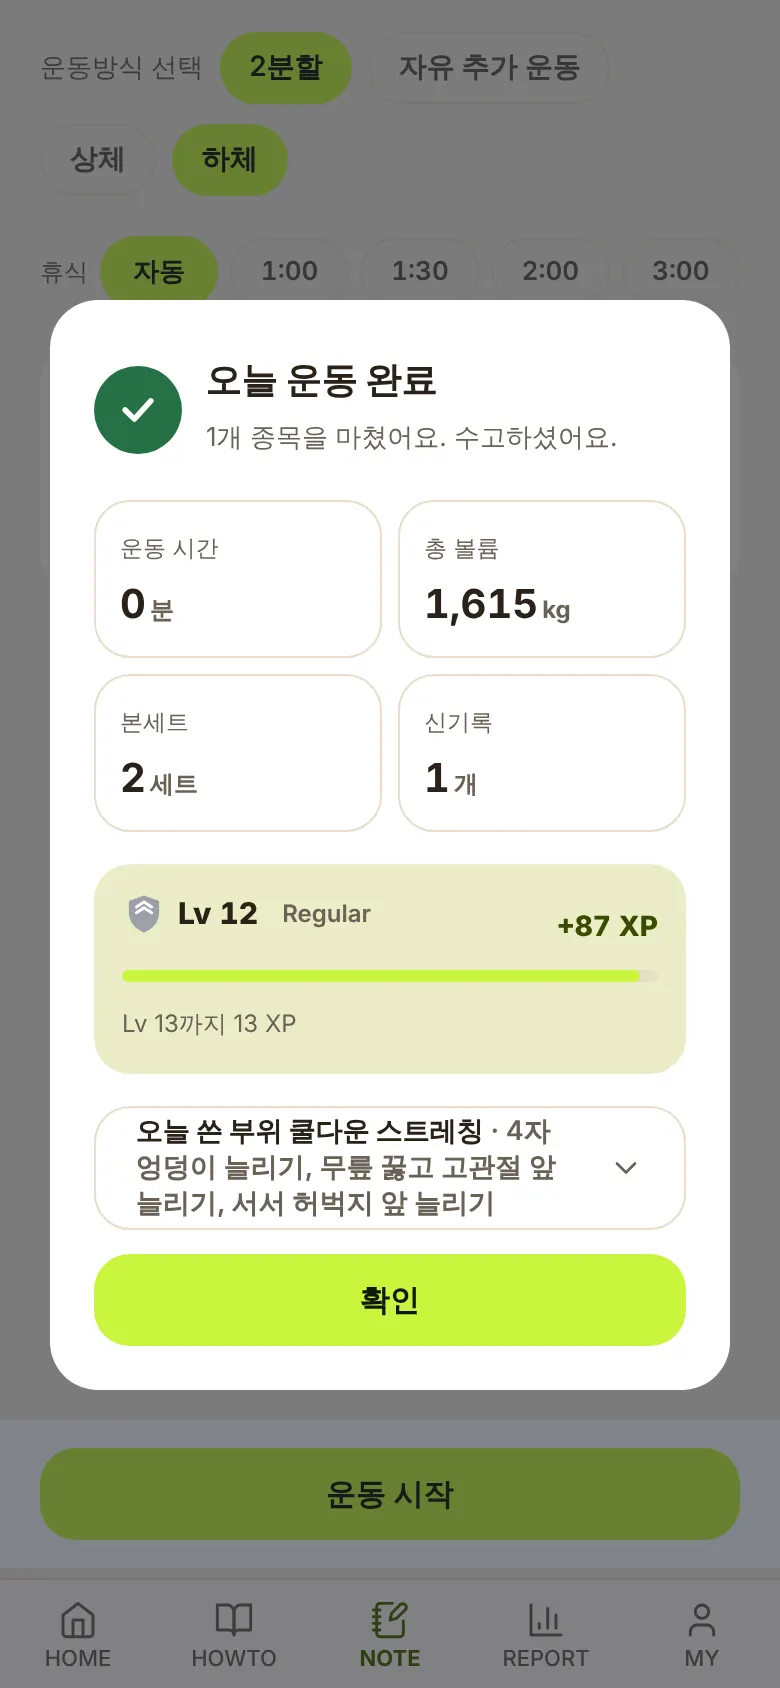
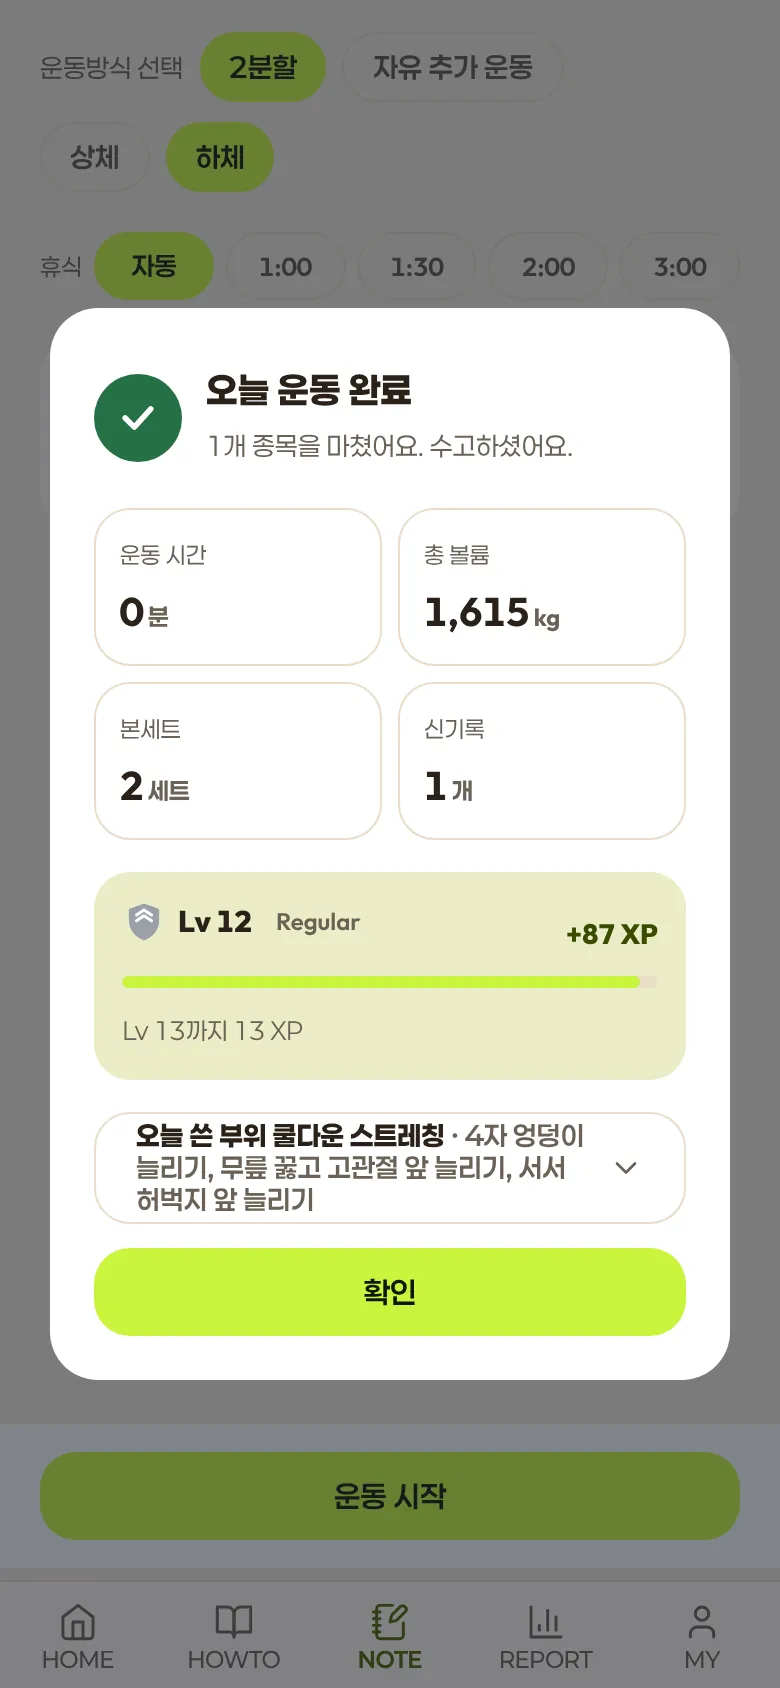
홍보 페이지 보완: 앱 화면을 실제 폰트로 재캡처, 큰 휴대폰 화면 5개(캘린더·리포트 포함), 로고 원래대로
Claude-Session: https://claude.ai/code/session_01KGz5zLwHWgXL2bpR68RxHz

diff --git a/public/intro/index.html b/public/intro/index.html
@@ -46,8 +46,7 @@ h2{font-weight:800;font-size:clamp(30px,4.6vw,52px);line-height:1.2;letter-spaci
 nav{position:fixed;top:0;left:0;right:0;z-index:40;display:flex;align-items:center;justify-content:space-between;padding:16px 24px;transition:background-color .3s,border-color .3s;border-bottom:1px solid transparent;color:#f5efe6}
 nav.solid{background:color-mix(in srgb,var(--bg) 92%,transparent);backdrop-filter:blur(10px);border-color:var(--line);color:var(--t1)}
 .brand{display:flex;align-items:center;gap:8px;font-weight:800;font-size:17px;text-decoration:none}
-.brand i{width:26px;height:26px;border-radius:8px;background:#c8f53c;display:grid;place-items:center}
-.brand i svg{width:16px;height:16px;stroke:#11170a}
+.brand img{width:30px;height:30px;border-radius:8px;display:block}
 nav .go{font:700 14px 'Paperlogy',sans-serif;text-decoration:none;padding:9px 14px;border-radius:10px;border:1px solid currentColor;opacity:.9}
 
 /* 히어로: 전면 사진 */
@@ -90,6 +89,21 @@ nav .go{font:700 14px 'Paperlogy',sans-serif;text-decoration:none;padding:9px 14
 .phone .screen{position:relative;width:100%;height:100%;border-radius:31px;overflow:hidden;background:#f4ece1}
 .phone img{position:absolute;inset:0;width:100%;height:100%;object-fit:cover;object-position:top;opacity:0;transition:opacity .3s ease}
 .phone img.on{opacity:1}
+
+
+/* 기능 행(지그재그, 큰 휴대폰 화면) */
+.feat{display:grid;grid-template-columns:1fr auto;gap:64px;align-items:center;padding:56px 0;border-top:1px solid var(--line)}
+.feat:first-child{border-top:0;padding-top:0}
+.feat.rev{grid-template-columns:auto 1fr}
+.feat.rev .txt{order:2}
+.feat .phone{width:min(320px,76vw);margin-top:0}
+.feat .n{font:800 56px/1 'Outfit',sans-serif;color:var(--fill);letter-spacing:-.04em}
+.feat h3{font-size:clamp(26px,3.2vw,36px);font-weight:800;line-height:1.28;margin-top:14px}
+.feat p{font-size:17px;color:var(--t2);line-height:1.75;margin-top:14px;max-width:460px}
+.feat ul{list-style:none;margin-top:18px;display:flex;flex-direction:column;gap:9px}
+.feat li{font-size:15px;padding-left:20px;position:relative;color:var(--t1)}
+.feat li::before{content:'';position:absolute;left:0;top:9px;width:10px;height:3px;background:var(--fill);border-radius:2px}
+@media (max-width:820px){.feat,.feat.rev{grid-template-columns:1fr;gap:28px;padding:44px 0}.feat.rev .txt{order:0}.feat .phone{margin:0 auto}}
 
 /* 점진적 과부하 데모 */
 .demo{display:grid;grid-template-columns:1fr 1fr;gap:0;margin-top:44px;border:1px solid var(--line);border-radius:24px;overflow:hidden}
@@ -176,7 +190,7 @@ footer .wrap{padding:0}
 </head>
 <body class="dark">
 <nav id="nav">
-  <a class="brand" href="/intro/"><i><svg viewBox="0 0 24 24" fill="none" stroke-width="2.4" stroke-linecap="round"><path d="M6 7v10M18 7v10M3 10v4M21 10v4M6 12h12"/></svg></i>BodyTailor Log</a>
+  <a class="brand" href="/intro/"><img src="/icon-192.png" alt="" width="30" height="30" />BodyTailor Log</a>
   <a class="go" href="/">무료로 시작하기</a>
 </nav>
 
@@ -213,13 +227,13 @@ footer .wrap{padding:0}
   </div>
 </section>
 
-<section id="how" data-tone="dark" style="padding-top:80px">
+<section id="how" data-tone="dark" style="padding-top:90px">
   <div class="wrap">
-    <div class="steps">
-      <div class="step rv"><div class="n">01</div><h3>하던 운동을 골라요</h3><p>종목을 다 볼 필요 없어요. 자주 하는 운동 몇 개로 루틴을 만들면, 지난 기록과 오늘 목표가 미리 채워져요.</p><div class="phone"><div class="screen"><img class="on" loading="lazy" src="img/cap-list.webp" alt="기록 화면: 지난 기록과 오늘 목표"></div></div></div>
-      <div class="step rv d1"><div class="n">02</div><h3>세트 끝나면 체크</h3><p>체크하면 쉬는 시간이 바로 시작돼요. 너무 쉽거나 힘들면 다음 세트 무게를 그 자리에서 알려줘요.</p><div class="phone"><div class="screen"><img class="on" loading="lazy" src="img/cap-rest.webp" alt="세트 체크 후 휴식 타이머"></div></div></div>
-      <div class="step rv d2"><div class="n">03</div><h3>다음엔 조금 더</h3><p>끝나면 오늘 기록을 한 장으로 정리하고, 다음번 목표를 지난번보다 한 걸음만 높여요.</p><div class="phone"><div class="screen"><img class="on" loading="lazy" src="img/cap-done.webp" alt="운동 완료 요약"></div></div></div>
-    </div>
+    <div class="feat rv"><div class="txt"><div class="n">01</div><h3>하던 운동을 고르면<br>오늘 목표가 나와요</h3><p>종목을 다 볼 필요 없어요. 자주 하는 운동 몇 개로 루틴을 만들면 지난 기록과 오늘 목표가 미리 채워져요. "적용"을 누르면 세트마다 목표가 들어가요.</p><ul><li>세트별 목표 · 증량까지 남은 횟수</li><li>직전 기록 바로 보기</li></ul></div><div class="phone"><div class="screen"><img class="on" loading="lazy" src="img/cap-list.webp" alt="기록 화면: 다음 무게 추천과 세트 입력"></div></div></div>
+    <div class="feat rev rv"><div class="txt"><div class="n">02</div><h3>세트 끝나면 체크,<br>휴식은 자동으로</h3><p>체크하면 쉬는 시간이 바로 시작되고, 끝나면 알림으로 알려줘요. 세트가 너무 쉽거나 힘들면 다음 세트 무게도 그 자리에서 제안해요.</p><ul><li>목표에 맞춘 휴식 시간</li><li>다음 세트 무게 조정</li></ul></div><div class="phone"><div class="screen"><img class="on" loading="lazy" src="img/cap-rest.webp" alt="세트 체크 후 휴식 타이머"></div></div></div>
+    <div class="feat rv"><div class="txt"><div class="n">03</div><h3>끝나면<br>한 장으로 정리</h3><p>운동 시간·볼륨·신기록·레벨 진행을 보여주고, 오늘 한 부위에 맞는 쿨다운 스트레칭도 추천해요.</p><ul><li>신기록 알림</li><li>레벨·시즌</li></ul></div><div class="phone"><div class="screen"><img class="on" loading="lazy" src="img/cap-done.webp" alt="운동 완료 요약"></div></div></div>
+    <div class="feat rev rv"><div class="txt"><div class="n">04</div><h3>캘린더에서<br>한 달이 한눈에</h3><p>날짜마다 운동한 부위와 세트가 색으로 쌓여요. 지난 기록도 캘린더에서 바로 고칠 수 있어요.</p><ul><li>부위별 색 표시</li><li>지난 기록 추가·수정</li></ul></div><div class="phone"><div class="screen"><img class="on" loading="lazy" src="img/cap-calendar.webp" alt="캘린더 화면"></div></div></div>
+    <div class="feat rv"><div class="txt"><div class="n">05</div><h3>기록이 쌓이면<br>리포트가 보여요</h3><p>부위별 주간 세트, 종목별 최고 기록, 정체된 종목과 유산소 목표까지 한 화면에서 봐요.</p><ul><li>근육별 주간 세트</li><li>최근 개인 기록·정체 감지</li></ul></div><div class="phone"><div class="screen"><img class="on" loading="lazy" src="img/cap-report.webp" alt="리포트 화면"></div></div></div>
   </div>
 </section>
 

diff --git a/CLAUDE.md b/CLAUDE.md
@@ -137,7 +137,7 @@
 - 휴식 종료 알림(최초 사용 시 권한 요청) + 알림음 선택(`restSoundId`). 소셜 알림 옵트인은 전체 on/off만(Phase2).
 - **스트레칭 가이드**(2026-10-30): `utils/stretches.js`(34종, 부위 9·상황 3, 저장 안 함) + `StretchGuide.jsx`. HOWTO 상단 "운동 둘러보기/스트레칭" 전환, 웜업 화면 동적 3개·완료 요약 쿨다운 3개(`recommendStretches`, 오늘 운동 부위 기준). 운동 전 동적·운동 후 정적 30초 원칙. 영상은 YouTube 검색 링크만.
 - PWA: 서비스워커(패스스루) + 설치 유도 배너.
-- **홍보 페이지** `/intro/`(2026-10-29, 2026-10-30 전면 개편): `public/intro/index.html` 단일 정적 파일(인라인 CSS/JS, 앱 번들과 분리). 구성: 전면 사진 히어로 → 차별점 표(앱이 짜준 계획 vs 내 기록이 기준) → 3단계(고르고·체크하고·다음엔 조금 더, 휴대폰 화면) → 점진적 과부하 데모(utils/strength.js 규칙과 동일) → 기록 방식(리스트형/포커스형) → 트레이너 → FAQ. 섹션별 `data-tone`으로 다크·베이지 교차. 사진 `img/photo-*.webp`(Unsplash 무료 라이선스, 사진 속 상표 로고는 지움), 앱 화면 `img/cap-*.webp`(목업 데이터 캡처 — 실제 사용자 기록 금지), 공유 이미지 `og.png`.
+- **홍보 페이지** `/intro/`(2026-10-29, 2026-10-30 전면 개편): `public/intro/index.html` 단일 정적 파일(인라인 CSS/JS, 앱 번들과 분리). 구성: 전면 사진 히어로 → 차별점 표(앱이 짜준 계획 vs 내 기록이 기준) → 기능 5개(큰 휴대폰 화면 지그재그: 오늘 목표·자동 휴식·완료 요약·캘린더·리포트) → 점진적 과부하 데모(utils/strength.js 규칙과 동일) → 기록 방식(리스트형/포커스형) → 트레이너 → FAQ. 섹션별 `data-tone`으로 다크·베이지 교차. 사진 `img/photo-*.webp`(Unsplash 무료 라이선스, 사진 속 상표 로고는 지움), 앱 화면 `img/cap-*.webp`(목업 데이터 캡처 — 실제 사용자 기록 금지, 앱 폰트가 적용됐는지 확인: 캡처 브라우저는 서비스워커 차단), 로고는 `/icon-192.png`, 공유 이미지 `og.png`.
   - 문구 원칙: PT를 낮추지 않는다("PT 없이도" 금지) — 혼자 운동하는 날의 기록 도구, 어려우면 트레이너를 권한다. 다른 앱 이름을 쓰지 않고 방식만 비교. 종목 수·성취 수 같은 숫자로 압도하지 않고 쉽게. 근거 없는 사용자 수·후기 금지. ksa-on.space와 같은 레이아웃(좌 글·우 휴대폰 히어로, 휴대폰 주변 떠다니는 배지, 아이콘 카드 3열)은 쓰지 않는다. 앱 기능·규칙이 바뀌면 문구·데모도 함께 맞춘다.
 
 ### 7.4 리포트 · 홈 인사이트

diff --git a/CHANGELOG.md b/CHANGELOG.md
@@ -2,6 +2,11 @@
 
 (20줄 초과로 src/App.jsx 상단 주석에서 이 파일로 분리됨)
 
+[2026-10-30] 홍보 페이지 보완(사용자 지적) | public/intro/index.html, public/intro/img/cap-*.webp(캘린더·리포트 추가, 전체 재캡처)
+- 앱 화면 캡처에 실제 폰트(페이퍼로지·Outfit)가 빠져 있던 문제: 캡처 환경의 서비스워커가 폰트 요청을 가로채 기본 폰트로 찍혔음 → 다시 캡처.
+- 쓰는 법 3단계(작은 휴대폰)를 큰 휴대폰 화면 5개 지그재그(오늘 목표·자동 휴식·완료 요약·캘린더·리포트)로 바꿔 앱 내용이 잘 보이게.
+- 좌상단 로고를 기존 앱 아이콘(/icon-192.png)으로 되돌림.
+
 [2026-10-30] 홍보 페이지 전면 개편(사용자 요청) | public/intro/index.html, public/intro/img/(photo-*·cap-* 추가, log·rest·report·done.webp 삭제), CLAUDE.md
 - 차별점 중심: "짜준 운동 대신, 내가 정한 운동을" · 내 기록이 기준(점진적 과부하). 다른 앱 이름 없이 방식만 비교하는 표.
 - 전면 사진 히어로(Unsplash, 상표 로고 지움)·사진 띠·트레이너 배경, 쓰는 법 3단계 + 리스트형/포커스형 전환(목업 데이터 앱 화면), 섹션별 다크·베이지 교차.
